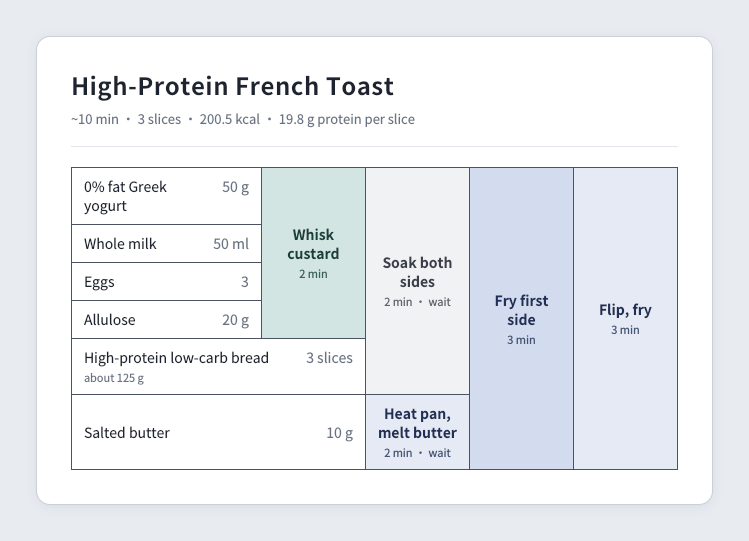
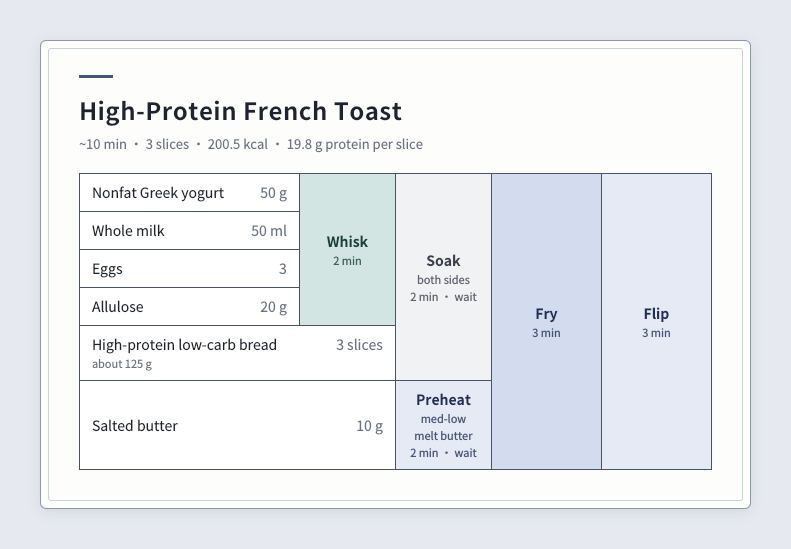
One-verb steps, timeline-like sub-columns, recipe-card frame
- steps: single verb plus optional small notes (one per line);
  plain cooking verbs in English, nonfat Greek yogurt naming
- layout: a shorter step under a longer one gets a narrower cell via
  right-aligned sub-columns; ingredient column sized to its longest name
- image: double-ruled recipe card with a small accent bar, no divider
  under the summary line

Claude-Session: https://claude.ai/code/session_01QTuuncf3o8J9F6xQdQUiuV

Changed region(s): [[0.0614, 0.0591, 0.9519, 0.9464], [0.0307, 0.0887, 0.0614, 0.9168]]

diff --git a/skills/recipe-table/scripts/render_recipe.py b/skills/recipe-table/scripts/render_recipe.py
@@ -42,7 +42,7 @@ for k, i in ING.items():
     u = i.get("unit", "")
     i["_unit"] = (i.get("unit_en", UNIT_EN.get(u, u)) if EN else u)
 for k, s in STEPS.items():
-    s["_action"] = T(s, "action", k)
+    s["_action"], s["_note"] = T(s, "action", k), T(s, "note", k)
 assert not missing, "missing English: " + ", ".join(missing)
 WAIT = "wait" if EN else "等待"
 
@@ -105,22 +105,56 @@ def dur(s):
     m = s.get("min")
     return "" if m is None else f"{m} min"
 
-def col_widths(ing, base, per, lo, hi):
-    """Pixel width per table column: ingredient column fixed, step columns grow with the longest
-    step in that column, so a 7-minute rest looks longer than a 1-minute stir (clamped both ways)."""
-    w = [ing]
-    for c in range(1, LAST + 1):
-        m = max((STEPS[k].get("min") or 0 for k in TREE if col[k] == c), default=0)
-        w.append(max(lo, min(hi, base + per * m)))
-    return w
+def textw(s, px):
+    """Rough rendered width of a string: CJK glyphs are square, Latin about 0.56 em."""
+    return sum(px if ord(ch) > 0x2E80 else px * 0.56 for ch in str(s))
 
-def recipe_table(cls_on=True, widths=None):
-    """Ingredient cell: name first, quantity right-aligned. Step cell class = phase + column parity."""
+def layout(scale, ing_px, font):
+    """Physical table columns and each cell's left edge.
+
+    Column 0 holds ingredients, sized to the longest name + quantity so names don't wrap.
+    Every step column gets width scale(minutes) of its longest step. When a column holds a
+    shorter step too (heat the pan 3 min under rest 7 min), the column is split into right-
+    aligned sub-columns so the shorter step is drawn narrower and its input cell stretches
+    to meet it, like a timeline.
+    """
+    lo_ing, hi_ing = ing_px
+    single = [k for k in ING if col[parent[k]] == 1] or list(ING)
+    need = max(textw(ING[k]["_name"], font) + textw(qty(ING[k]), font) for k in single) + 40
+    widths, starts, groups = [max(lo_ing, min(hi_ing, round(need)))], {0: 0}, {}
+    for c in range(1, LAST + 1):
+        cum, idx = [], {}
+        for d in sorted({STEPS[k].get("min") or 0 for k in TREE if col[k] == c}):
+            w = scale(d)
+            if cum and w - cum[-1] < 24:   # too close to be worth a separate sliver
+                cum[-1] = max(cum[-1], w)
+            else:
+                cum.append(w)
+            idx[d] = len(cum) - 1
+        starts[c], groups[c] = len(widths), (len(cum), idx)
+        widths += [cum[i] - cum[i - 1] for i in range(len(cum) - 1, 0, -1)] + [cum[0]]
+    left = {}
+    for k in depth:
+        if k in ING or not TREE[k]["in"]:
+            left[k] = 0
+        else:
+            n, idx = groups[col[k]]
+            left[k] = starts[col[k]] + (n - 1 - idx[STEPS[k].get("min") or 0])
+    return widths, left
+
+IMG_SCALE = lambda d: max(96, min(200, 44 + 22 * d))
+WIDGET_SCALE = lambda d: max(56, min(140, 28 + 14 * d))
+
+def recipe_table(cls_on=True, scale=IMG_SCALE, ing_px=(150, 300), font=14, fixed=True):
+    """Ingredient cell: name first, quantity right-aligned. Step cell: verb, then small note and time."""
+    widths, left = layout(scale, ing_px, font)
+    total_cols = len(widths)
     rows = []
     for l in leaves:
         cells, k = [], l
         while True:
-            span, wid = len(leafset(k)), (col[parent[k]] - col[k]) if k in parent else 1
+            span = len(leafset(k))
+            wid = (left[parent[k]] if k in parent else total_cols) - left[k]
             if k in ING:
                 i = ING[k]
                 note = (f'<span class="n">{E(i["_note"])}</span>' if cls_on else f'<br><sub>{E(i["_note"])}</sub>') if i["_note"] else ""
@@ -130,19 +164,18 @@ def recipe_table(cls_on=True, widths=None):
                     cells.append(f'<td colspan="{wid}">{E(i["_name"])} <b>{E(qty(i))}</b>{note}</td>')
             else:
                 s = TREE[k]
-                d = " · ".join(x for x in [dur(s), WAIT if s.get("passive") else ""] if x)
-                d = (f'<span class="n">{E(d)}</span>' if cls_on else f'<br><sub>{E(d)}</sub>') if d else ""
+                notes = [x.strip() for x in s["_note"].split("·") if x.strip()]  # one short note per line
+                small = notes + [x for x in [" · ".join(x for x in [dur(s), WAIT if s.get("passive") else ""] if x)] if x]
+                d = "".join((f'<span class="n">{E(x)}</span>' if cls_on else f'<br><sub>{E(x)}</sub>') for x in small)
                 c = f' class="s {s["phase"]} c{col[k] % 2}"' if cls_on else ""
                 cells.append(f'<td{c} rowspan="{span}" colspan="{wid}">{E(s["_action"])}{d}</td>')
             if k not in parent or leafset(parent[k])[0] != l:
                 break
             k = parent[k]
         rows.append("<tr>" + "".join(cells) + "</tr>")
-    if not widths:
-        return '<table class="cfe">' + "".join(rows) + "</table>"
     cols = "".join(f'<col style="width:{w}px">' for w in widths)
-    return (f'<table class="cfe" style="table-layout:fixed;width:{sum(widths)}px"><colgroup>{cols}</colgroup>'
-            + "".join(rows) + "</table>")
+    style = f' style="table-layout:fixed;width:{sum(widths)}px"' if fixed else ""
+    return f'<table class="cfe"{style}><colgroup>{cols}</colgroup>' + "".join(rows) + "</table>"
 
 # ---------- schedule ----------
 # One cook: hands-on steps never overlap, in the order they are listed. Passive steps (resting,
@@ -279,10 +312,12 @@ def image_html(table_only=False):
     axis = "".join(f'<div style="position:absolute;left:{px(t) - 15}px;width:30px;text-align:center;top:4px">{t}</div>' for t in ticks)
     tl.append(f'<tr><td class="tl axl">{"min" if EN else "分钟"}</td><td><div style="position:relative;height:22px;width:{track_w}px;font-size:11px;color:{MUTED}">{axis}</div></td></tr>')
     step_css = "".join(f".cfe .{p}.c0{{background:{a};color:{t}}}.cfe .{p}.c1{{background:{b};color:{t}}}" for p, (a, b, t, _) in PH.items())
-    css = f"""body{{margin:0;padding:36px;background:#E8ECF1;color:{INK};font-family:"Noto Sans CJK SC","Noto Sans SC",sans-serif;width:1100px}}
-.card{{display:inline-block;background:#fff;border:1px solid #C9D0DA;border-radius:14px;padding:30px 34px 34px;-webkit-box-shadow:0 2px 12px rgba(29,36,48,.08)}}
+    css = f"""body{{margin:0;padding:40px;background:#E6EAF0;color:{INK};font-family:"Noto Sans CJK SC","Noto Sans SC",sans-serif;width:1200px}}
+.card{{display:inline-block;background:#FDFDFC;border:1px solid #8E99A8;border-radius:6px;padding:7px;-webkit-box-shadow:0 3px 14px rgba(29,36,48,.10)}}
+.frame{{border:1px solid #CBD2DC;border-radius:3px;padding:26px 30px 30px}}
+.bar{{width:34px;height:3px;background:#3F5878;margin:0 0 14px}}
 h1{{font-size:24px;font-weight:bold;margin:0 0 6px;letter-spacing:.5px}}
-.sub{{color:{MUTED};font-size:13px;padding-bottom:18px;margin-bottom:20px;border-bottom:1px solid {HAIR}}}
+.sub{{color:{MUTED};font-size:13px;margin-bottom:20px}}
 .sec{{font-size:12px;color:{MUTED};margin:28px 0 10px;letter-spacing:2px}}
 .cfe{{border-collapse:collapse;font-size:14px;line-height:1.4}}
 .cfe td{{border:1px solid {LINE};padding:9px 12px;vertical-align:middle}}
@@ -290,7 +325,7 @@ h1{{font-size:24px;font-weight:bold;margin:0 0 6px;letter-spacing:.5px}}
 .cfe .q{{float:right;margin-left:12px;color:{MUTED};white-space:nowrap}}
 .cfe .s{{text-align:center;font-weight:bold}}
 {step_css}
-.cfe .n{{display:block;font-size:11px;font-weight:normal;margin-top:3px;opacity:.8}}
+.cfe .n{{display:block;font-size:11px;font-weight:normal;margin-top:2px;opacity:.8;white-space:nowrap}}
 .cfe .i .n{{color:{MUTED};opacity:1}}
 .tlt{{border-collapse:collapse;font-size:13px}}
 .tlt td{{padding:0}}
@@ -303,15 +338,15 @@ h1{{font-size:24px;font-weight:bold;margin:0 0 6px;letter-spacing:.5px}}
 .nt .v{{text-align:right}}
 .nt .u{{color:{MUTED};font-size:11px;margin-left:4px}}
 """
-    table = recipe_table(widths=col_widths(190, 40, 18, 104, 176))
-    head = f"<h1>{E(TITLE)}</h1><div class=\"sub\">{E(summary_line())}</div>"
+    table = recipe_table()
+    head = f"<div class=\"bar\"></div><h1>{E(TITLE)}</h1><div class=\"sub\">{E(summary_line())}</div>"
     if table_only:
         body = f"{head}{table}"
     else:
         nut = f'<div class="sec">营养成分</div>{nutrition_html()}' if has_nut else ""
         body = (f"{head}{table}"
                 f'<div class="sec">时间线</div><table class="tlt">{"".join(tl)}</table>{nut}')
-    return f'<!doctype html><html><head><meta charset="utf-8"><style>{css}</style></head><body><div class="card">{body}</div></body></html>'
+    return f'<!doctype html><html><head><meta charset="utf-8"><style>{css}</style></head><body><div class="card"><div class="frame">{body}</div></div></body></html>'
 
 # ---------- outputs ----------
 if mode == "widget":
@@ -319,7 +354,7 @@ if mode == "widget":
     summary = f'{E(TITLE)}：{len(ING)} 种材料，{len(TREE)} 个步骤，约 {total} 分钟'
     doc = (f"<style>{vars_}{CSS}</style><h2 class=\"sr-only\">{summary}</h2>"
            f'<div class="sum">{E(summary_line())}</div>'
-           f'<div class="wrap">{recipe_table(widths=col_widths(124, 30, 12, 58, 132))}</div>{timeline()}{nutrition_html()}')
+           f'<div class="wrap">{recipe_table(scale=WIDGET_SCALE, ing_px=(110, 220), font=13)}</div>{timeline()}{nutrition_html()}')
 elif mode == "page":
     vars_ = (":root{--bg:#fff;--fg:#222;--line:#555;--line2:#ddd;--t2:#666;--t3:#bbb;--fg2:#444}"
              "@media (prefers-color-scheme:dark){:root:not([data-theme=light]){--bg:#1b1b1d;--fg:#eee;--line:#aaa;--line2:#3a3a3d;--t2:#aaa;--t3:#666;--fg2:#ddd}}")
@@ -327,11 +362,11 @@ elif mode == "page":
            f"<title>{E(TITLE)}</title><style>{vars_}body{{background:var(--bg);color:var(--fg);"
            f'font-family:-apple-system,"PingFang SC",sans-serif;margin:0;padding:16px}}{CSS}</style></head><body>'
            f"<h1 style=\"font-size:20px;margin:0 0 4px\">{E(TITLE)}</h1><div class=\"sum\">{E(summary_line())}</div>"
-           f"<div class=\"wrap\">{recipe_table()}</div>{timeline()}{nutrition_html()}</body></html>")
+           f"<div class=\"wrap\">{recipe_table(scale=WIDGET_SCALE, ing_px=(110, 220), font=13)}</div>{timeline()}{nutrition_html()}</body></html>")
 elif mode in ("png", "table-png"):
     with tempfile.NamedTemporaryFile("w", suffix=".html", delete=False, encoding="utf-8") as f:
         f.write(image_html(table_only=mode == "table-png"))
-    subprocess.run(["wkhtmltoimage", "--quiet", "--enable-local-file-access", "--zoom", "2", "--width", "2344",
+    subprocess.run(["wkhtmltoimage", "--quiet", "--enable-local-file-access", "--zoom", "2", "--width", "2560",
                     "--format", "png", f.name, out], check=True, stderr=subprocess.DEVNULL)
     os.unlink(f.name)
     try:  # trim unused canvas on the right/bottom, keep a margin
@@ -351,7 +386,7 @@ else:
         s = STEPS[k]
         g.append(f"  {s['_action']} :{'done, ' if s.get('passive') else ''}{k}, {start[k]:02d}, {s.get('min') or 0}m")
     g.append(FENCE)
-    doc = (f"# {TITLE}\n\n{summary_line()}\n\n## 配方表\n\n{recipe_table(cls_on=False)}\n\n"
+    doc = (f"# {TITLE}\n\n{summary_line()}\n\n## 配方表\n\n{recipe_table(cls_on=False, fixed=False)}\n\n"
            f"## 时间线\n\n" + "\n".join(g) + "\n")
     if has_nut:
         head, rows = nutrition_rows()

diff --git a/recipes/breakfast/protein-pancake.md b/recipes/breakfast/protein-pancake.md
@@ -4,7 +4,7 @@
 
 ## 配方表
 
-<table class="cfe"><tr><td colspan="1">乳清蛋白粉 <b>25 g</b></td><td rowspan="6" colspan="1">拌匀<br><sub>1 min</sub></td><td rowspan="9" colspan="1">翻拌至无干粉<br><sub>1 min</sub></td><td rowspan="9" colspan="1">静置<br><sub>7 min · 等待</sub></td><td rowspan="10" colspan="1">小火盖盖煎<br><sub>2 min</sub></td><td rowspan="10" colspan="1">翻面再煎<br><sub>1 min</sub></td></tr><tr><td colspan="1">面粉 <b>20 g</b></td></tr><tr><td colspan="1">阿洛酮糖 <b>10 g</b></td></tr><tr><td colspan="1">肉桂粉 <b>0.5 tsp</b></td></tr><tr><td colspan="1">泡打粉 <b>0.5 tsp</b></td></tr><tr><td colspan="1">盐 <b>1 撮</b></td></tr><tr><td colspan="1">鸡蛋 <b>1 个</b></td><td rowspan="3" colspan="1">打散<br><sub>1 min</sub></td></tr><tr><td colspan="1">无糖希腊酸奶 <b>55 g</b></td></tr><tr><td colspan="1">全脂牛奶 <b>25 ml</b></td></tr><tr><td colspan="3">含盐黄油 <b>3 g</b></td><td rowspan="1" colspan="1">小火热锅抹黄油<br><sub>3 min · 等待</sub></td></tr></table>
+<table class="cfe"><colgroup><col style="width:155px"><col style="width:96px"><col style="width:96px"><col style="width:88px"><col style="width:110px"><col style="width:96px"><col style="width:96px"></colgroup><tr><td colspan="1">乳清蛋白粉 <b>25 g</b></td><td rowspan="6" colspan="1">拌匀<br><sub>1 min</sub></td><td rowspan="9" colspan="1">拌合<br><sub>无干粉即停</sub><br><sub>1 min</sub></td><td rowspan="9" colspan="2">静置<br><sub>7 min · 等待</sub></td><td rowspan="10" colspan="1">煎<br><sub>小火</sub><br><sub>加盖</sub><br><sub>2 min</sub></td><td rowspan="10" colspan="1">翻面<br><sub>1 min</sub></td></tr><tr><td colspan="1">面粉 <b>20 g</b></td></tr><tr><td colspan="1">阿洛酮糖 <b>10 g</b></td></tr><tr><td colspan="1">肉桂粉 <b>0.5 tsp</b></td></tr><tr><td colspan="1">泡打粉 <b>0.5 tsp</b></td></tr><tr><td colspan="1">盐 <b>1 撮</b></td></tr><tr><td colspan="1">鸡蛋 <b>1 个</b></td><td rowspan="3" colspan="1">搅匀<br><sub>1 min</sub></td></tr><tr><td colspan="1">脱脂希腊酸奶 <b>55 g</b></td></tr><tr><td colspan="1">全脂牛奶 <b>25 ml</b></td></tr><tr><td colspan="4">含盐黄油 <b>3 g</b></td><td rowspan="1" colspan="1">热锅<br><sub>小火</sub><br><sub>抹黄油</sub><br><sub>3 min · 等待</sub></td></tr></table>
 
 ## 时间线
 
@@ -14,12 +14,12 @@ dateFormat mm
 axisFormat %M
 todayMarker off
   拌匀 :dry, 00, 1m
-  打散 :wet, 01, 1m
-  翻拌至无干粉 :mix, 02, 1m
+  搅匀 :wet, 01, 1m
+  拌合 :mix, 02, 1m
   静置 :done, rest, 03, 7m
-  小火热锅抹黄油 :done, heat, 07, 3m
-  小火盖盖煎 :fry, 10, 2m
-  翻面再煎 :flip, 12, 1m
+  热锅 :done, heat, 07, 3m
+  煎 :fry, 10, 2m
+  翻面 :flip, 12, 1m
 ```
 
 ## 营养成分

diff --git a/skills/recipe-table/references/yaml-format.md b/skills/recipe-table/references/yaml-format.md
@@ -29,13 +29,14 @@ egg: {name: 鸡蛋, qty: 1, unit: 个, note: 室温, nut: [78, 6, 1, 5, 0, 62], 
 ```yaml
 wet:  {action: 打散, in: [egg, milk], min: 1}
 rest: {action: 静置, in: [mix], min: 7, passive: true}
-heat: {phase: heat, action: 热锅抹黄油, in: [butter], min: 3, passive: true, end_with: rest}
-fry:  {phase: heat, action: 煎, in: [rest, heat], min: 2}
+heat: {phase: heat, action: 热锅, note: 小火 · 抹黄油, in: [butter], min: 3, passive: true, end_with: rest}
+fry:  {phase: heat, action: 煎, note: 小火 · 加盖, in: [rest, heat], min: 2}
 ```
 
 | 字段 | 说明 |
 |---|---|
-| `action` | 动作，2–6 个字，细节放进回复正文 |
+| `action` | 只写一个动词（拌匀、静置、煎、翻面 / Whisk, Rest, Cook, Flip）。做的是什么从左边的材料就看得出来，不用重复 |
+| `note` | 可选，动词下面的小字，放火候、程度这类关键提示，用 `·` 分隔，每段一行，比如 `小火 · 加盖`、`无干粉即停` |
 | `in` | 用到的材料 id 或前面步骤的 id，决定配方表的合并格 |
 | `min` | 时长（分钟） |
 | `passive` | `true` 表示不用一直动手（静置、浸泡、热锅、烤箱里烤），可以和别的步骤同时进行，格子里标“等待” |
@@ -74,9 +75,9 @@ fry:  {phase: heat, action: 煎, in: [rest, heat], min: 2}
 |---|---|
 | 顶层 | `title_en`；有 `serving_name` 时加 `serving_name_en`（复数，如 `slices`），没有时默认 `serving` |
 | 材料 | `name_en`；有 `note` 时加 `note_en`；单位不是 g/ml/tsp 这类通用单位时可加 `unit_en`（个 → 空，撮 → pinch，片 → slices 已内置） |
-| 步骤 | `action_en`，含逗号时要加引号，比如 `action_en: "Flip, cook"` |
+| 步骤 | `action_en`；有 `note` 时加 `note_en`，含 `·` 或逗号时加引号，比如 `note_en: "low · covered"` |
 
-英文名同样不写品牌，动作尽量简短（几个词），格子太窄时会换行。
+英文名同样不写品牌，用英文菜谱里的常用叫法（比如 0 脂希腊酸奶是 Nonfat Greek yogurt）。动作用一个常见的烹饪动词：Whisk、Stir、Rest、Soak、Preheat、Cook / Fry、Flip。注意词义：fold 是把打发的东西轻轻翻进去，普通拌匀不要用。
 
 ## 营养计算
 

diff --git a/recipes/breakfast/protein-french-toast.md b/recipes/breakfast/protein-french-toast.md
@@ -4,7 +4,7 @@
 
 ## 配方表
 
-<table class="cfe"><tr><td colspan="1">0 脂希腊酸奶 <b>50 g</b></td><td rowspan="4" colspan="1">搅匀蛋液<br><sub>2 min</sub></td><td rowspan="5" colspan="1">面包浸透<br><sub>2 min · 等待</sub></td><td rowspan="6" colspan="1">煎第一面<br><sub>3 min</sub></td><td rowspan="6" colspan="1">翻面再煎<br><sub>3 min</sub></td></tr><tr><td colspan="1">全脂牛奶 <b>50 ml</b></td></tr><tr><td colspan="1">鸡蛋 <b>3 个</b></td></tr><tr><td colspan="1">阿洛酮糖 <b>20 g</b></td></tr><tr><td colspan="2">高蛋白低碳面包 <b>3 片</b><br><sub>约 125 g</sub></td></tr><tr><td colspan="2">含盐黄油 <b>10 g</b></td><td rowspan="1" colspan="1">热锅化黄油<br><sub>2 min · 等待</sub></td></tr></table>
+<table class="cfe"><colgroup><col style="width:155px"><col style="width:96px"><col style="width:96px"><col style="width:110px"><col style="width:110px"></colgroup><tr><td colspan="1">脱脂希腊酸奶 <b>50 g</b></td><td rowspan="4" colspan="1">搅匀<br><sub>2 min</sub></td><td rowspan="5" colspan="1">浸泡<br><sub>两面</sub><br><sub>2 min · 等待</sub></td><td rowspan="6" colspan="1">煎<br><sub>3 min</sub></td><td rowspan="6" colspan="1">翻面<br><sub>3 min</sub></td></tr><tr><td colspan="1">全脂牛奶 <b>50 ml</b></td></tr><tr><td colspan="1">鸡蛋 <b>3 个</b></td></tr><tr><td colspan="1">阿洛酮糖 <b>20 g</b></td></tr><tr><td colspan="2">高蛋白低碳面包 <b>3 片</b><br><sub>约 125 g</sub></td></tr><tr><td colspan="2">含盐黄油 <b>10 g</b></td><td rowspan="1" colspan="1">热锅<br><sub>中小火</sub><br><sub>化黄油</sub><br><sub>2 min · 等待</sub></td></tr></table>
 
 ## 时间线
 
@@ -13,11 +13,11 @@ gantt
 dateFormat mm
 axisFormat %M
 todayMarker off
-  搅匀蛋液 :wet, 00, 2m
-  面包浸透 :done, soak, 02, 2m
-  热锅化黄油 :done, heat, 02, 2m
-  煎第一面 :fry, 04, 3m
-  翻面再煎 :flip, 07, 3m
+  搅匀 :wet, 00, 2m
+  浸泡 :done, soak, 02, 2m
+  热锅 :done, heat, 02, 2m
+  煎 :fry, 04, 3m
+  翻面 :flip, 07, 3m
 ```
 
 ## 营养成分

diff --git a/skills/recipe-table/references/style.md b/skills/recipe-table/references/style.md
@@ -21,11 +21,12 @@
 
 ## 图片版（`--png` / `--table-png`）
 
-- 整体是一张卡片：浅灰蓝底色上一张白色圆角卡片，细边框加很淡的阴影，四周留白一致。
+- 整体像一张拿在手里的菜谱卡：浅灰蓝底色上一张米白卡片，外框深灰细线、内侧再嵌一圈浅灰细线（双线框），小圆角、很淡的阴影；标题上方一小段深蓝灰短横线作装饰。不要像网页的圆角矩形。
+- 标题、摘要行和表格之间不加分隔线。
 - 配色冷静、偏冷色，不用暖色：备料/混合是浅青绿，加热是浅灰蓝，等待是浅灰；时间线条形用对应的深一号颜色。
 - 相邻两列同一阶段时一深一浅交替（按列号奇偶），避免两个同色格子贴在一起看不出边界。
 - 每个格子都有深灰实线边框，不能只靠颜色区分格子。
-- 文字可以换行，不让长名称把表格撑宽：材料列固定宽度，名称换行、用量靠右不换行；步骤动作尽量短，避免一个词被拆开。
-- 步骤列宽大致和时长成比例（有上下限），7 分钟的静置看起来比 1 分钟的拌匀宽。
+- 材料列宽度按最长的名称 + 用量来定（有上限），名称一般不换行；步骤格只放一个动词，提示放在小字里，每段一行。
+- 步骤列宽大致和时长成比例（有上下限）。同一列里有更短的步骤时（比如 7 分钟静置下面的 3 分钟热锅），这一列会拆成靠右对齐的小列，短的那格画得更窄，它左边的材料格拉长去接，读起来像时间线。
 - 只要配方表的图片（`--table-png`）：只留标题和下面那行摘要，其他文字（分节标题、时间线、营养表）都不要。中文、英文各一张。
 - 生成方式：脚本先拼出 HTML，再用 wkhtmltoimage（老版 WebKit）截图成 PNG，2 倍分辨率。它不支持 CSS 变量、grid、flex，布局用表格、inline-block 和绝对定位。渲染后按卡片外留白裁掉多余画布。

diff --git a/skills/recipe-table/SKILL.md b/skills/recipe-table/SKILL.md
@@ -18,6 +18,7 @@ description: 把食谱（文字、链接、YouTube 字幕、截图）整理成 C
    - 原文没写时长就按常识估，回复里说明哪些是估的。
    - 热锅、化黄油、预热烤箱这类准备工作也要进配方表，写进用它的那一步的 `in`；它们通常标 `passive: true` 并用 `end_with` 对齐到正在等的那一步。具体写法见 `references/yaml-format.md` 规则 5。
    - 开火的步骤写 `phase: heat`，不用一直动手的步骤写 `passive: true`。
+   - 每个步骤只写一个动词，火候和程度放 `note`；中英文都用菜谱里的常用说法，不确定的词（比如 fold 和 stir 的区别）先想清楚再用，拿不准就问用户。
 
 3. **填营养数据**：每个材料一个 `nut`（这份用量对应的 6 个数）。有 nutrition-logger 工具时先用 `search_food` 查用户自己的食物库，因为用户实际用的产品最准；查不到再用 `lookup_nutrition` 按用量折算。盐、泡打粉也要算钠，代糖按 0 kcal。缺任何一个 `nut` 就不出营养表，回复里说明缺哪个。
 
